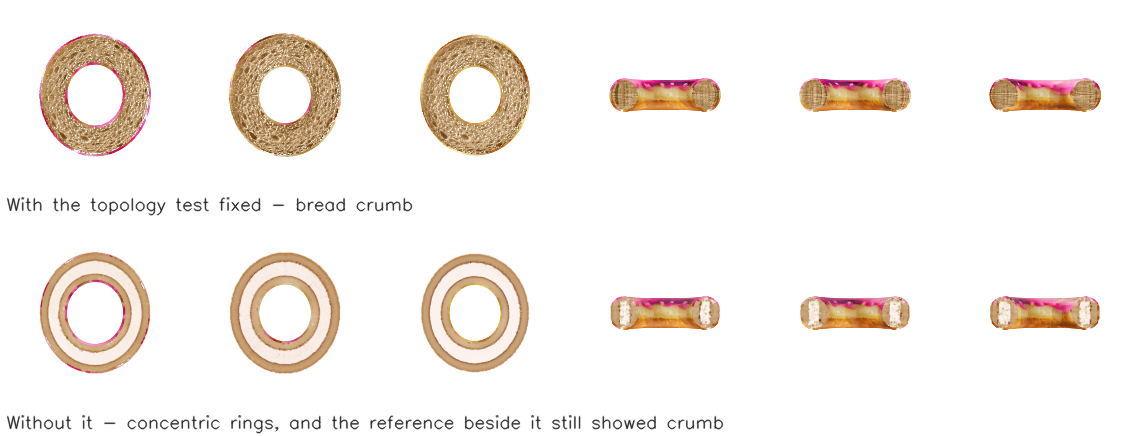
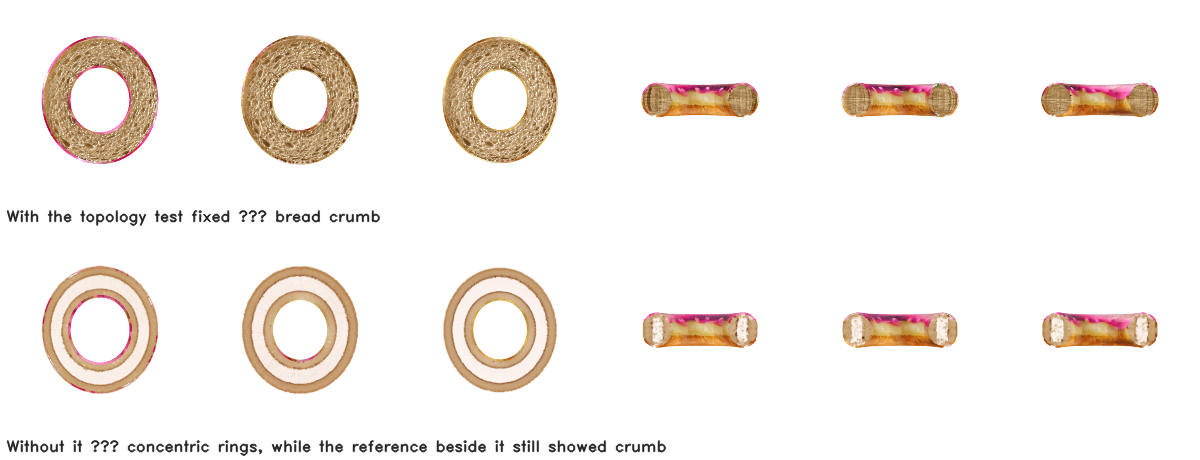
The doughnut, trained to 200 iterations with the shell pinned
Adds a gallery of held-out cuts beside the ablation that was already there. The point the
gallery makes is the one the ablation cannot: the crumb is continuous across planes the
supervision never saw, so it is in the volume and not on the twenty-four planes it was fitted
to.

diff --git a/index.html b/index.html
@@ -398,13 +398,18 @@ The published dataset — watermelon, apple, orange, red velvet cake, loaf bread
 entirely genus zero and every released model is star-shaped about its centroid. We train a doughnut.
 </p>
 <figure><img src="assets/doughnut.png" alt="Doughnut cross-sections"></figure>
+<figure><img src="assets/doughnut_cuts.png" alt="Doughnut, held-out cuts">
+  <figcaption>Twelve cuts the training never sampled. A transverse plane meets the torus in an
+  annulus and a longitudinal one in two discs, and the crumb is continuous across both — the
+  supervision never sees these planes, so the structure is in the volume rather than on the
+  planes it was fitted to.</figcaption></figure>
 <div class="note"><strong>The one place topology is not free.</strong> A reference is re-mapped onto the
 rendered section by a bijection when the two agree in topology and by a depth profile otherwise. The
 reference mask fills its enclosed regions so a pale core — an orange's — stays part of the section; a
 doughnut's hole is also pale and also enclosed, and nothing in the image separates them. Filled, the
 reference reports no hole while the rendered annulus reports one, so every transverse plane takes the
 fallback for the whole run — a lookup on distance to the boundary, which can only draw bands parallel
-to the silhouette. High-frequency energy 32.3 with the test fixed against 6.3 without.
+to the silhouette. High-frequency energy 32.9 with the test fixed against 6.3 without, and 28.2 CLIP on held-out cuts.
 And the reference saved beside it still showed crumb, so nothing in the logs looked wrong.</div>
 <p style="color:var(--mut);font-size:14px">
 This is also a caution about the reference-free metrics, and one worth recording: between the two
